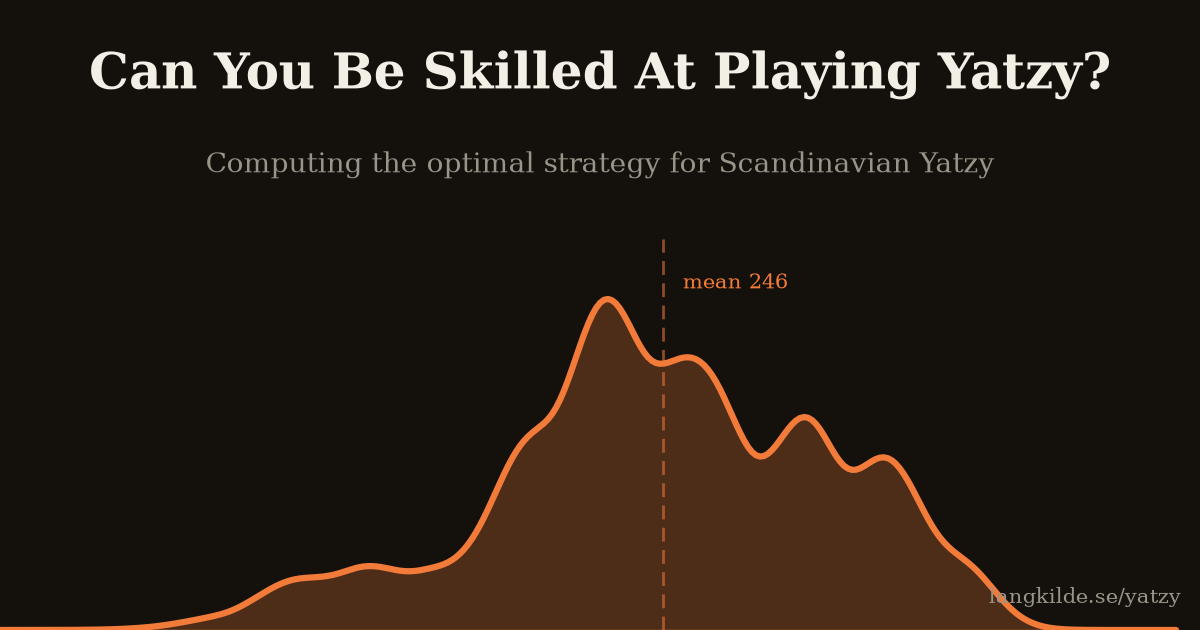
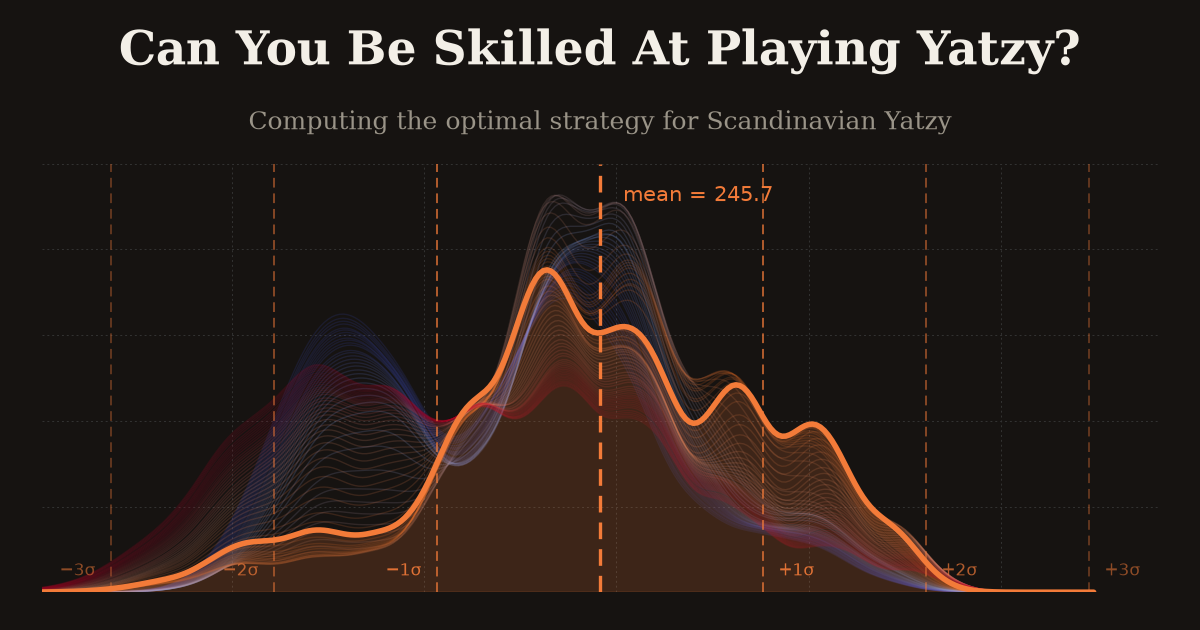
Treatise: richer, centered share card
Replace the minimal og-cover with the live-chart look: the full theta curve
family + sigma lines at theta=0.04, matching the on-page distribution chart.
Center the x-window on the mean (mean line at the card's exact horizontal
center, equal margins) so the distribution reads centered rather than
right-of-center on a 0-400 axis. Title kept on top.

Changed region(s): [[0.0, 0.2413, 0.9867, 1.0], [0.0617, 0.0302, 0.925, 0.2111], [0.925, 0.8746, 0.9558, 0.9048]]

diff --git a/treatise/scripts/gen-og-cover.py b/treatise/scripts/gen-og-cover.py
@@ -11,7 +11,9 @@ Run:
 Output: treatise/og-cover.png
 """
 
+import glob
 import json
+import re
 from pathlib import Path
 
 import numpy as np
@@ -22,10 +24,13 @@ matplotlib.use("Agg")
 import matplotlib.pyplot as plt
 from matplotlib.colors import to_rgb
 
-BG = "#14110d"       # deep warm near-black, makes the orange pop
+BG = "#161311"       # matches the treatise dark chart background
 TEXT = "#f3efe7"     # cream (matches treatise --text on dark)
 MUTED = "#9a9488"
+GRID = "#333333"
 THETA = 0.04
+SMOOTH = 1.5         # emulates the chart's D3 curveBasis
+Y_MAX = 0.015        # fixed y-domain, same as the live risk-theta chart
 
 THETA_STOPS = [
     (-0.30, "#3b4cc0"), (-0.15, "#8db0fe"), (0.00, "#F37021"),
@@ -43,43 +48,83 @@ def theta_color(t):
     return to_rgb(THETA_STOPS[-1][1])
 
 
-def main():
-    d = json.load(open(f"outputs/density/density_{THETA:g}.json"))
+def load_curve(theta):
+    d = json.load(open(f"outputs/density/density_{theta:g}.json"))
     scores = np.array([p[0] for p in d["pmf"]], dtype=float)
-    dens = gaussian_filter1d(np.array([p[1] for p in d["pmf"]], dtype=float), 1.5)
-    mean = d["mean"]
+    dens = gaussian_filter1d(np.array([p[1] for p in d["pmf"]], dtype=float), SMOOTH)
+    return scores, dens, d["mean"], d["std_dev"]
+
+
+def main():
+    # The full curve family (|theta| <= 0.4), same range the live chart shows.
+    family = []
+    for p in glob.glob("outputs/density/density_*.json"):
+        m = re.search(r"density_(-?[\d.]+)\.json", p)
+        t = float(m.group(1))
+        if -0.401 <= t <= 0.401:
+            family.append(t)
+    family.sort()
+
+    scores, dens, mean, std = load_curve(THETA)
     color = theta_color(THETA)
 
     fig = plt.figure(figsize=(12, 6.3), dpi=100)
     fig.patch.set_facecolor(BG)
 
-    # Chart occupies the lower ~62% of the card, full-bleed, as a backdrop.
-    # Zoom the x-range to where the mass lives so the curve fills and centers.
-    ax = fig.add_axes([0.0, 0.0, 1.0, 0.62])
+    # Chart fills the lower ~70% of the card, like the live widget, with
+    # equal left/right margins. The x-window is centered on the mean so the
+    # distribution's mass sits in the middle of the card (a 0-400 axis would
+    # push it right-of-center).
+    ax = fig.add_axes([0.035, 0.06, 0.93, 0.68])
     ax.set_facecolor(BG)
-    ax.set_xlim(80, 380)
-    ax.set_ylim(0, dens.max() * 1.18)
-    ax.fill_between(scores, dens, color=color, alpha=0.26, zorder=1)
-    ax.plot(scores, dens, color=color, lw=4.5, zorder=3, solid_capstyle="round")
-    ax.axvline(mean, color=color, lw=2.0, dashes=(5, 3), alpha=0.55, zorder=2)
-    ax.text(mean + 5, dens.max() * 1.08, f"mean {mean:.0f}", color=color,
-            fontsize=15, ha="left", va="top", family="serif")
+    x_lo, x_hi = mean - 145.0, mean + 145.0
+    ax.set_xlim(x_lo, x_hi)
+    ax.set_ylim(0, Y_MAX)
+
+    # Faint dashed grid (as in the chart).
+    for gy in np.linspace(0, Y_MAX, 6):
+        ax.axhline(gy, color=GRID, lw=0.7, dashes=(2, 3), zorder=0)
+    for gx in range(0, 401, 50):
+        if x_lo < gx < x_hi:
+            ax.axvline(gx, color=GRID, lw=0.7, dashes=(2, 3), zorder=0)
+
+    # Ghost family: every computed curve, faint, coloured by its theta.
+    for t in family:
+        sc, de, _, _ = load_curve(t)
+        ax.plot(sc, de, color=theta_color(t), lw=1.0, alpha=0.16, zorder=1)
+
+    # Featured theta=0.04 curve: filled + bold.
+    ax.fill_between(scores, dens, color=color, alpha=0.18, zorder=2)
+    ax.plot(scores, dens, color=color, lw=4.0, zorder=5, solid_capstyle="round")
+
+    # +-1..4 sigma lines (graded), matching the distribution chart.
+    for k, alpha in [(1, 0.7), (2, 0.5), (3, 0.34), (4, 0.22)]:
+        for sign in (-1, 1):
+            sx = mean + sign * k * std
+            if sx <= x_lo or sx >= x_hi:
+                continue
+            ax.axvline(sx, color=color, lw=1.4, dashes=(5, 3), alpha=alpha, zorder=4)
+            ax.text(sx + (4 if sign > 0 else -4), Y_MAX * 0.03,
+                    f"{'+' if sign > 0 else '−'}{k}σ", color=color,
+                    alpha=min(alpha + 0.2, 0.95), fontsize=12,
+                    ha="left" if sign > 0 else "right", va="bottom", zorder=6)
+
+    # Mean line (heaviest).
+    ax.axvline(mean, color=color, lw=2.4, dashes=(5, 3), zorder=6)
+    ax.text(mean + 6, Y_MAX * 0.95, f"mean = {mean:.1f}", color=color,
+            fontsize=15, ha="left", va="top", zorder=7)
     ax.axis("off")
 
-    # Headline (kept centered, inside the safe zone; sized to fit the width).
-    fig.text(0.5, 0.92, "Can You Be Skilled At Playing Yatzy?",
-             ha="center", va="top", color=TEXT, fontsize=36,
+    # Headline strip on top (share cards need a legible title).
+    fig.text(0.5, 0.955, "Can You Be Skilled At Playing Yatzy?",
+             ha="center", va="top", color=TEXT, fontsize=34,
              family="serif", fontweight="bold")
-    fig.text(0.5, 0.76, "Computing the optimal strategy for Scandinavian Yatzy",
-             ha="center", va="top", color=MUTED, fontsize=20, family="serif")
-
-    # Brand mark.
-    fig.text(0.984, 0.035, "langkilde.se/yatzy", ha="right", va="bottom",
-             color=MUTED, fontsize=15, family="serif")
+    fig.text(0.5, 0.825, "Computing the optimal strategy for Scandinavian Yatzy",
+             ha="center", va="top", color=MUTED, fontsize=18, family="serif")
 
     out = Path("treatise/og-cover.png")
     fig.savefig(out, facecolor=BG)
-    print(f"Wrote {out} ({out.stat().st_size / 1024:.0f} KB)")
+    print(f"Wrote {out} ({out.stat().st_size / 1024:.0f} KB), family={len(family)} curves")
 
 
 if __name__ == "__main__":